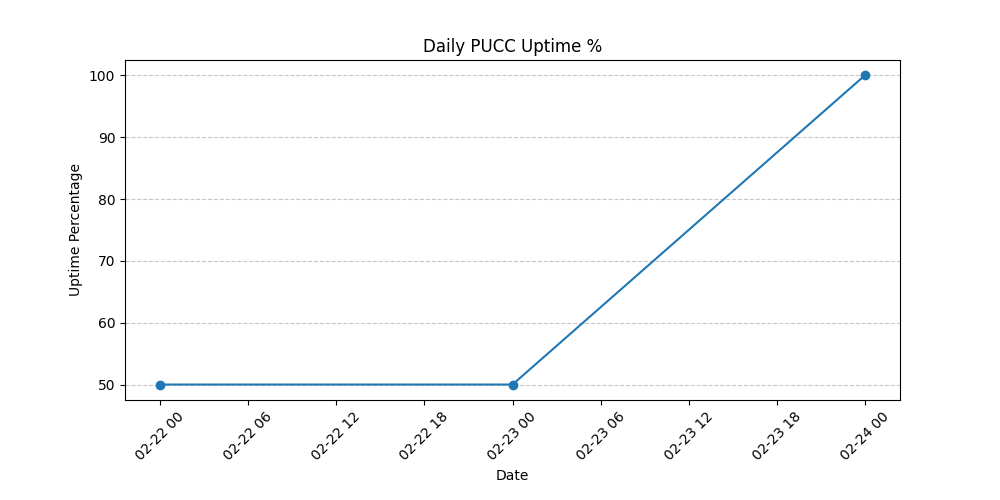
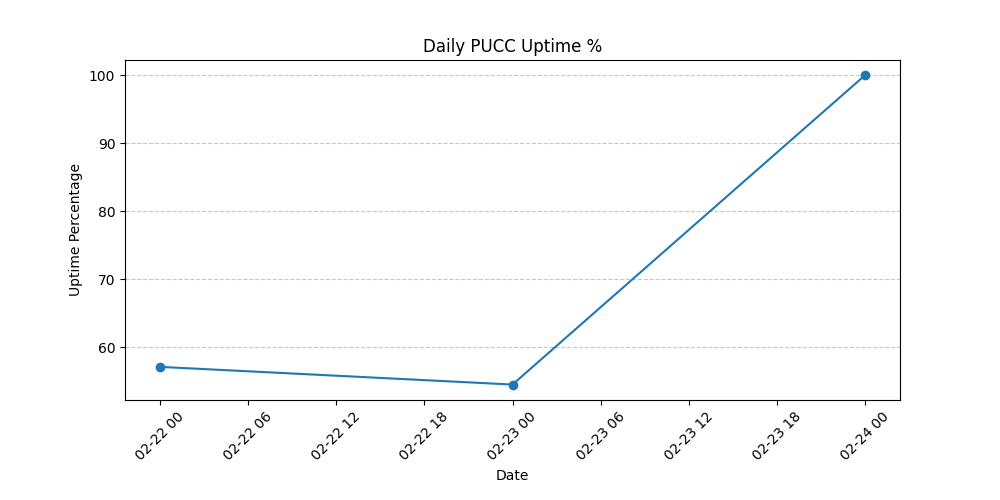
deploy: 10feba9f67e0002118874d290fe59e500f7b1bbb

diff --git a/report/pucc_analysis_report.html b/report/pucc_analysis_report.html
@@ -16,8 +16,8 @@
 <body>
   <h1>PUCC Log Analysis Report</h1>
   <h2>Summary</h2>
-  <p>Total Downtime: 545.25 minutes</p>
-  <p>Average Uptime Percentage: 66.67%</p>
+  <p>Total Downtime: 343.38 minutes</p>
+  <p>Average Uptime Percentage: 70.56%</p>
   <p>Most Common Reason for Unavailability: N/A</p>
 
   <h2>Daily PUCC Downtime (Minutes)</h2>
@@ -36,11 +36,11 @@
   <tbody>
     <tr>
       <th>2025-02-22</th>
-      <td>54.983333</td>
+      <td>0.133333</td>
     </tr>
     <tr>
       <th>2025-02-23</th>
-      <td>490.266667</td>
+      <td>343.250000</td>
     </tr>
   </tbody>
 </table>
@@ -62,15 +62,15 @@
   <tbody>
     <tr>
       <th>2025-02-22</th>
-      <td>50.0</td>
+      <td>57.142857</td>
     </tr>
     <tr>
       <th>2025-02-23</th>
-      <td>50.0</td>
+      <td>54.545455</td>
     </tr>
     <tr>
       <th>2025-02-24</th>
-      <td>100.0</td>
+      <td>100.000000</td>
     </tr>
   </tbody>
 </table>
@@ -113,20 +113,6 @@
       <td>2025-02-22 19:17:30</td>
       <td>Unavailable</td>
       <td>Marked available in error</td>
-    </tr>
-    <tr>
-      <td>2025-02-22 21:13:56</td>
-      <td>2025-02-22</td>
-      <td>2025-02-22 21:13:56</td>
-      <td>Unavailable</td>
-      <td>Full</td>
-    </tr>
-    <tr>
-      <td>2025-02-22 21:26:37</td>
-      <td>2025-02-22</td>
-      <td>2025-02-22 21:26:37</td>
-      <td>Unavailable</td>
-      <td>Full</td>
     </tr>
     <tr>
       <td>2025-02-23 08:08:17</td>

diff --git a/report/analyze_pucc_logs.py b/report/analyze_pucc_logs.py
@@ -11,6 +11,10 @@ latest_log = os.path.join(logs_dir, log_files[-1])
 df = pd.read_csv(latest_log)
 df['Timestamp'] = pd.to_datetime(df['Timestamp'], errors='coerce')
 df['Date'] = df['Timestamp'].dt.date
+df['Hour'] = df['Timestamp'].dt.hour
+
+# Filter out expected downtime between 21:00 and 08:00
+df = df[~((df['Hour'] >= 21) | (df['Hour'] < 8))]
 
 # Calculate total downtime per day
 df['Duration'] = df['Timestamp'].diff().dt.total_seconds().div(60)  # Convert to minutes
